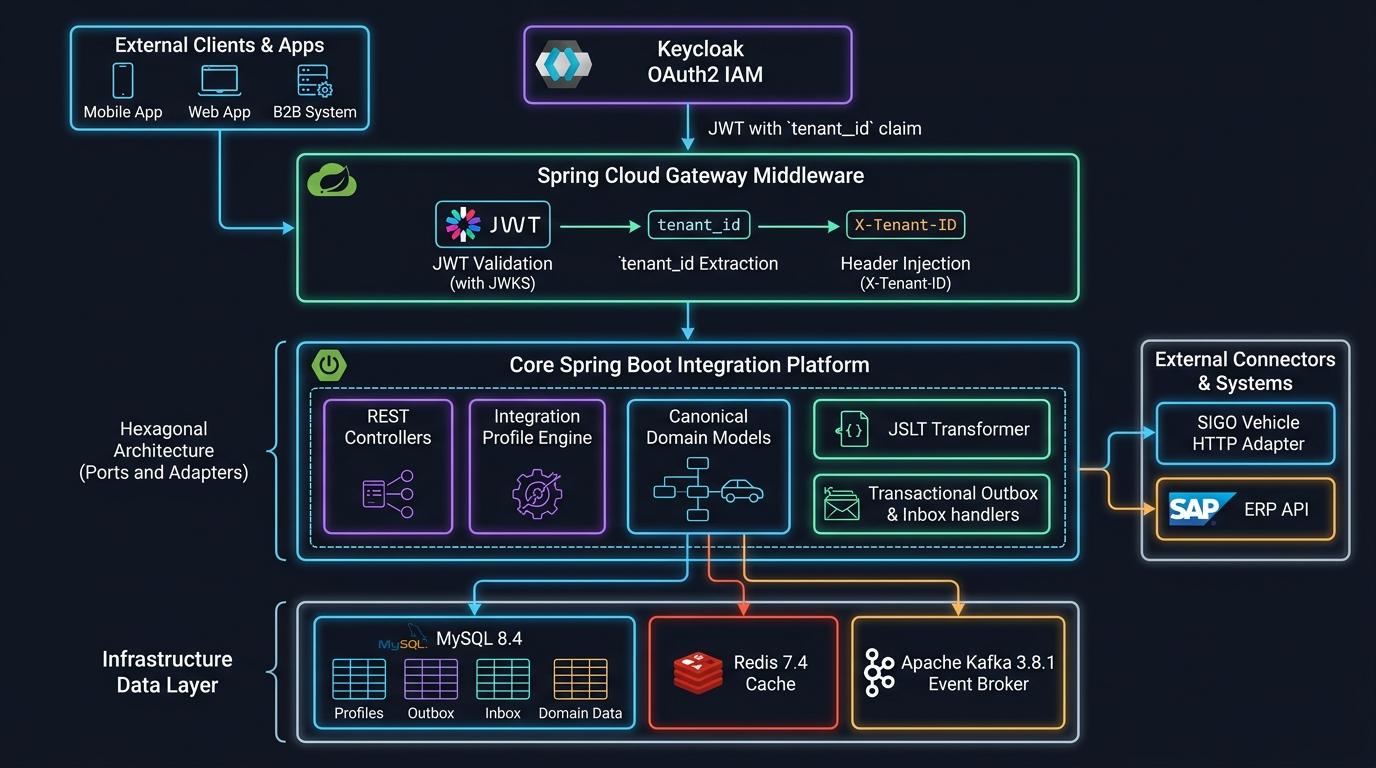
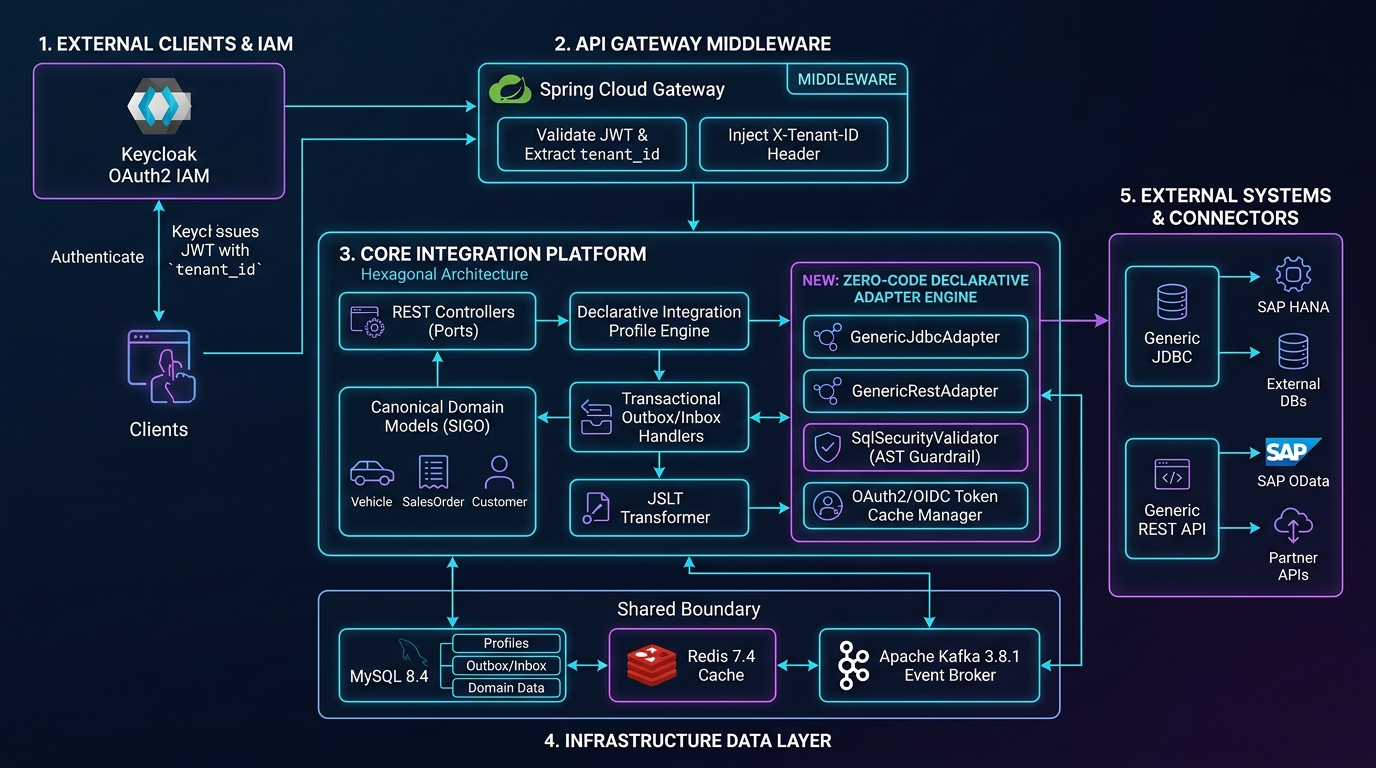
docs: update architecture diagram and solution documentation with generic declarative adapter engine

diff --git a/docs/solution_architecture.md b/docs/solution_architecture.md
@@ -1,12 +1,12 @@
 # Análisis de Arquitectura de la Solución: Plataforma Multitenant de Integración Flexible
 
-Este documento presenta el análisis técnico detallado y la visualización arquitectónica de la **Plataforma Multitenant de Integración Flexible** y el **MVP SIGO Vehicle**.
+Este documento presenta el análisis técnico detallado y la visualización arquitectónica de la **Plataforma Multitenant de Integración Flexible**, el **MVP SIGO Vehicle** y el **Motor Declarativo de Adaptadores Genéricos (Zero-Code Adapters)**.
 
 ---
 
 ## 1. Diagrama General de Arquitectura
 
-El siguiente diagrama representa la arquitectura enterprise de la solución, sus capas, componentes clave y el flujo de datos desde la autenticación del cliente hasta los adaptadores externos.
+El siguiente diagrama representa la arquitectura enterprise de la solución, sus capas, componentes clave, el motor declarativo de adaptadores y el flujo de datos desde la autenticación del cliente hasta los adaptadores y sistemas externos.
 
 ![Diagrama de Arquitectura de la Solución](architecture.png)
 
@@ -41,6 +41,13 @@ flowchart TD
             OutboxHandler["Outbox Publisher (ShedLock)"]
             InboxHandler["Inbox Consumer (Idempotencia / Deduplicación)"]
         end
+
+        subgraph GenericAdapters["Motor de Adaptadores Genéricos Declarativos (Zero-Code)"]
+            GenericJdbc["GenericJdbcAdapter\n(Extracción BD Parametrizada)"]
+            GenericRest["GenericRestAdapter\n(Extracción API HTTP/REST)"]
+            SqlValidator["SqlSecurityValidator\n(Guardrail AST JSqlParser)"]
+            AuthCache["OAuth2TokenCacheManager\n(Caché Hilo-Seguro de JWT OIDC)"]
+        end
     end
 
     subgraph InfraLayer["Capa de Infraestructura & Persistencia"]
@@ -49,9 +56,9 @@ flowchart TD
         Kafka[("Apache Kafka 3.8.1\n- Topic: integration-profile.events")]
     end
 
-    subgraph ExternalAdapters["Adaptadores & Sistemas Destino"]
-        SigoAdapter["SIGO Vehicle HTTP Adapter"]
-        SAPAdapter["SAP ERP API Connector"]
+    subgraph ExternalSystems["Sistemas & Fuentes Externas"]
+        SAPDB["SAP HANA / DBs Relacionales (JDBC)"]
+        SAPOData["SAP S/4HANA OData / APIs REST (OIDC/Bearer/API Key)"]
     end
 
     WebApp -->|"HTTP Request + Bearer JWT"| GW
@@ -59,16 +66,21 @@ flowchart TD
     GW --> JWTSec --> TenantExt --> HeaderInj
     HeaderInj -->|"HTTP + Header X-Tenant-ID"| RESTApi
     RESTApi --> TenantCtx
-    TenantCtx --> DomainModel
-    TenantCtx --> ProfileEngine
+    TenantCtx --> DomainModel & ProfileEngine
+
+    ProfileEngine -->|"Configura Extracción"| GenericAdapters
+    GenericJdbc --> SqlValidator -->|"Query SELECT Validada"| SAPDB
+    GenericRest --> AuthCache -->|"Request + Bearer JWT / API Key"| SAPOData
+
+    SAPDB & SAPOData -->|"Filas / Payloads JSON Extraídos"| JSLTEngine
+    JSLTEngine --> DomainModel
     DomainModel -->|"Tx Commit (Data + Event)"| MySQL
+
     OutboxHandler -->|"Polling (Locks via ShedLock)"| MySQL
     OutboxHandler -->|"Publica Eventos Canónicos"| Kafka
     Kafka -->|"Consume Eventos Inbound"| InboxHandler
     InboxHandler -->|"Idempotencia / Deduplicación"| MySQL
     ProfileEngine -->|"Cache Consultas"| Redis
-    ProfileEngine --> JSLTEngine
-    JSLTEngine --> SigoAdapter & SAPAdapter
 ```
 
 ---
@@ -80,22 +92,28 @@ flowchart TD
 - **Seguridad en Borde (Spring Cloud Gateway)**:
   - El Gateway valida tokens OAuth2/JWT emitidos por **Keycloak**.
   - Extrae la claim `tenant_id` del payload del JWT de forma segura.
-  - Elimina cualquier cabecera `X-Tenant-ID` maliciosa o enviada por el cliente y reinyecta `X-Tenant-ID: <tenant_id>` validada hacia el backend.
+  - Elimina cualquier cabecera `X-Tenant-ID` maliciosa enviada por el cliente y reinyecta `X-Tenant-ID: <tenant_id>` validada hacia el backend.
 
-### 3.2. Arquitectura Hexagonal (Puertos y Adaptadores)
+### 3.2. Motor Declarativo de Adaptadores Genéricos (Zero-Code Adapters)
+- **Extracción de BD sin Código (`GenericJdbcAdapter`)**: Permite integrar bases de datos externas (SAP HANA, SQL Server, Oracle, PostgreSQL, MySQL) mediante configuración de perfiles en metadatos, evitando compilar clases Java específicas.
+- **Extracción de APIs REST/OData (`GenericRestAdapter`)**: Soporta endpoints HTTP dinámicos con plantillas de parámetros delta (`{lastSyncWithBuffer}`), extracción por JsonPath y formatos de fecha configurables.
+- **Guardrail de Seguridad SQL (`SqlSecurityValidator`)**:
+  - Analizador sintáctico AST (**JSqlParser 4.9**) que garantiza estrictamente ejecuciones de tipo `SELECT`.
+  - Rechaza cualquier operación DML/DDL (`INSERT`, `UPDATE`, `DELETE`, `DROP`, `ALTER`, `EXEC`), multi-statements concatenados con `;` y accesos a tablas de catálogo del sistema (`information_schema`, `sys`, `mysql`, etc.).
+- **Gestor de Autenticación de APIs (`OAuth2TokenCacheManager`)**:
+  - Administra la autenticación dinámica contra APIs externas soportando **OIDC / OAuth2 Client Credentials**, **Bearer Token**, **Basic Auth** y **API Key**.
+  - Mantiene una caché hilo-segura (*thread-safe*) en memoria de tokens de acceso con renovación automática proactiva antes de la expiración.
+
+### 3.3. Arquitectura Hexagonal (Puertos y Adaptadores)
 - **Desacoplamiento Total**: Los microservicios de dominio (Customer, Vehicle, SalesOrder) no poseen acoplamiento con SAP, SIGO, SOAP, REST o Kafka.
 - **Modelos Canónicos**: Los dominios internos operan exclusivamente con modelos de dominio canónicos y eventos propios.
-- **Adaptadores Intercambiables**: La integración con proveedores externos se realiza mediante adaptadores independientes, permitiendo agregar conectores adicionales sin modificar el núcleo.
+- **Adaptadores Intercambiables**: La integración con proveedores externos se realiza mediante adaptadores independientes y genéricos.
 
-### 3.3. Transactional Outbox e Inbox Patterns
+### 3.4. Transactional Outbox e Inbox Patterns
 - **Garantía de Consistencia Eventual**:
   - **Outbox**: La creación de entidades de negocio y la escritura del evento en la tabla `outbox_events` se efectúan dentro de la misma transacción relacional MySQL.
   - **Outbox Publisher**: Polling asíncrono optimizado con bloqueos distribuidos **ShedLock** para publicar eventos en **Apache Kafka** (`integration-profile.events`).
   - **Inbox**: Ingesta de mensajes entrantes registrados previamente en `inbox_events` para garantizar **idempotencia**, **deduplicación**, auditoría y soporte para Dead Letter Queues (DLQ).
-
-### 3.4. Motor de Perfiles de Integración Declarativos
-- **Configuración Dinámica por Tenant**: Define el dominio de negocio, fuente externa, protocolo, conector, adaptador, dirección de sincronización (`INBOUND`, `OUTBOUND`, `BIDIRECTIONAL`) y Fuente de Verdad (`PLATFORM`, `EXTERNAL`, `SHARED`).
-- **Transformación Declarativa**: Utiliza motores **JSLT** y **JsonPath** para mapear automáticamente los esquemas heterogéneos de sistemas externos a las entidades canónicas de la plataforma.
 
 ---
 
@@ -107,9 +125,10 @@ flowchart TD
 | **Framework Principal** | Spring Boot 3.4.5 | Framework core de la aplicación backend. |
 | **API Gateway** | Spring Cloud Gateway | Proxy inverso, enrutamiento, resiliencia y validación de seguridad en el borde. |
 | **Seguridad & IAM** | Keycloak 26.x + Spring Security OAuth2 | Proveedor de identidad y servidor de recursos JWT. |
+| **Seguridad SQL** | JSqlParser 4.9 | Validador sintáctico AST para asegurar consultas de solo lectura (`SELECT`). |
 | **Base de Datos Relacional** | MySQL 8.4 | Persistencia multitenant de perfiles, modelos canónicos, Outbox e Inbox. |
 | **Migración de DB** | Flyway | Gestión y control de versiones de esquemas SQL (`V1__create_integration_profile.sql`). |
 | **Event Broker** | Apache Kafka 3.8.1 (KRaft) | Event bus distribuido para comunicación asíncrona desacoplada. |
-| **Caché y Estado** | Redis 7.4 | Almacenamiento en caché de perfiles de integración activos. |
+| **Caché y Estado** | Redis 7.4 + Token Cache | Almacenamiento en caché de perfiles de integración activos y tokens OIDC/OAuth2. |
 | **Transformación de Datos** | JSLT (Schibsted) + JsonPath | Motor de mapeo y transformación declarativa de JSON/Payloads. |
 | **Resiliencia & Coordinación** | Resilience4j + ShedLock | Circuit breaker, rate limiting y coordinación distribuida de tareas scheduled. |
